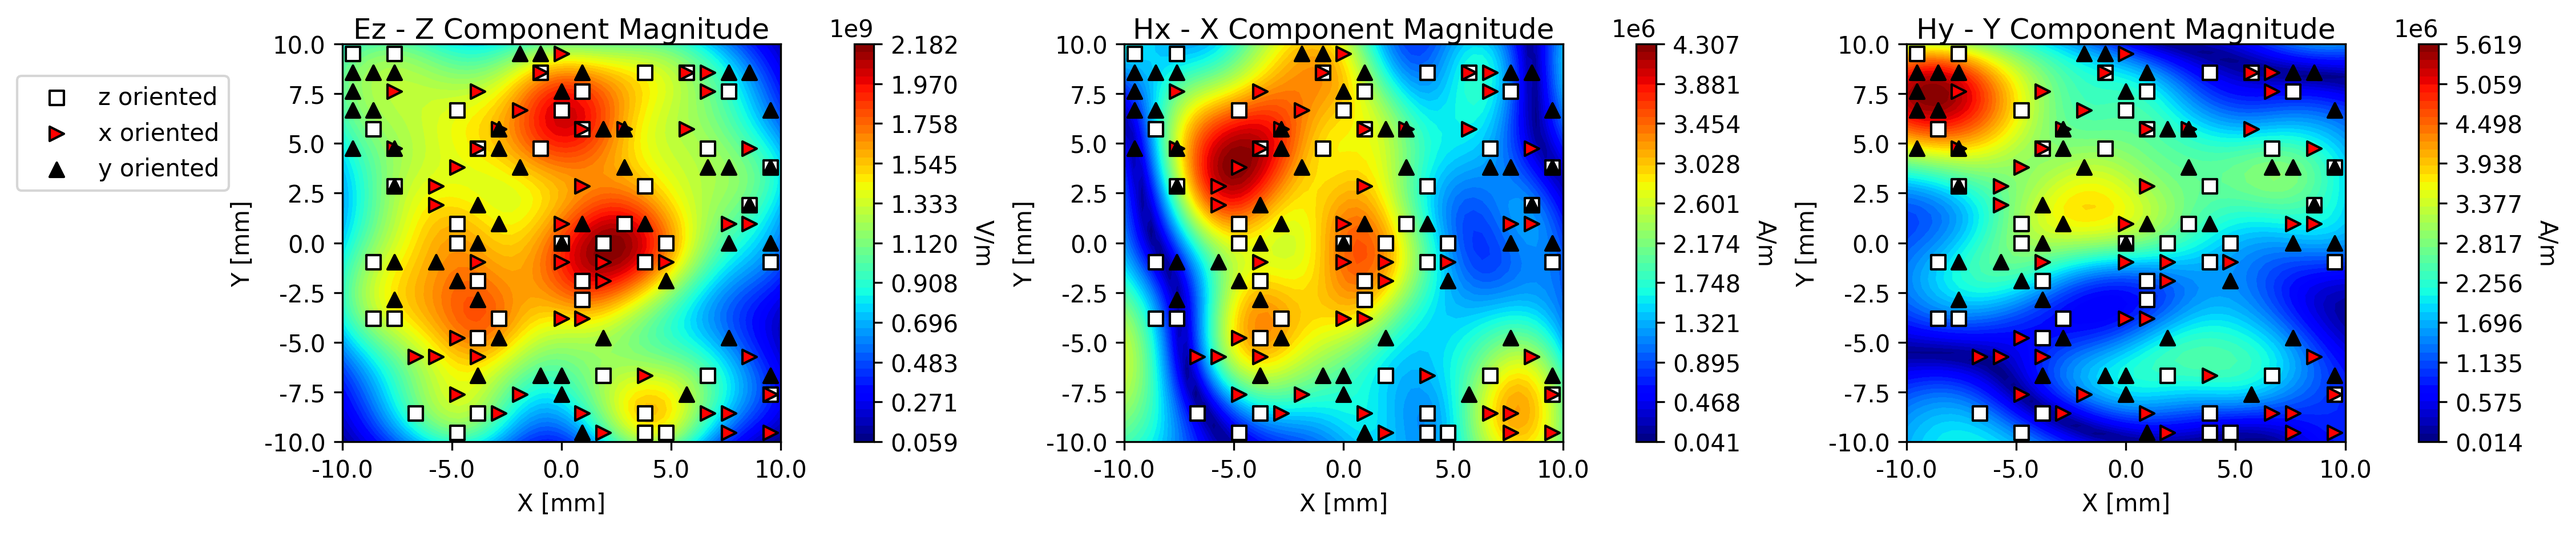
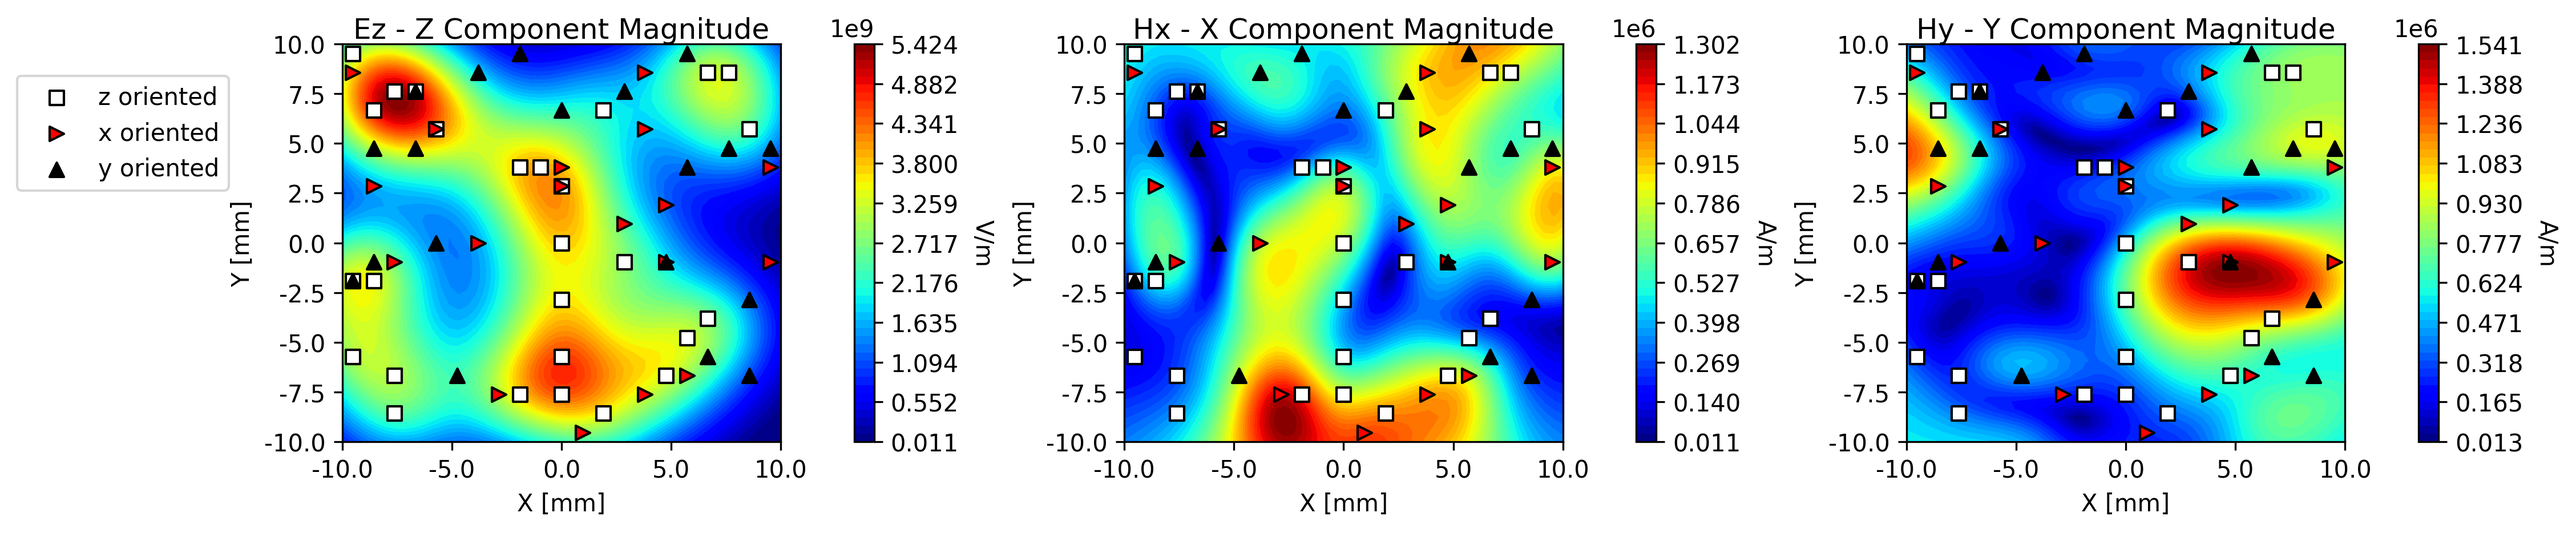
from vm

diff --git a/my_scripts/generate_data.py b/my_scripts/generate_data.py
@@ -1,5 +1,4 @@
 import os, sys
-import h5py
 import numpy as np
 import scipy
 import math as m
@@ -7,7 +6,7 @@ import cmath as cm
 from pprint import pprint
 
 
-PROJECT_CWD = r"/workspace/"
+PROJECT_CWD = r"/home/pignari/Desktop/neural_networks/DeepLearning_models"
 sys.path.append(PROJECT_CWD)
 
 from my_packages.neural_network.data_generators.mixed_array_generator import MixedArrayGenerator
@@ -23,9 +22,10 @@ from torch.utils.data import TensorDataset, DataLoader
 
 print("cuda available: ", torch.cuda.is_available())
 print("number of GPUs: ",torch.cuda.device_count())
-print("I am currently using device number: ", torch.cuda.current_device())
-print("the device object is: ", torch.cuda.device(0))
-print("the device name is: ", torch.cuda.get_device_name(0))
+if torch.cuda.is_available():
+    print("I am currently using device number: ", torch.cuda.current_device())
+    print("the device object is: ", torch.cuda.device(0))
+    print("the device name is: ", torch.cuda.get_device_name(0))
 
 
 
@@ -39,9 +39,9 @@ substrate_thickness = 1.4e-2
 substrate_epsilon_r = 4.4
 dynamic_range = 2
 probe_height = 0.6e-2
-dipole_density_E = 0.1
-dipole_density_H = 0.1
-data_dir = "/workspace/NN_data/high_res_with_noise/"
+dipole_density_E = 0.05
+dipole_density_H = 0.05
+data_dir = "/share/NN_data/high_res_with_noise"
 
 
 rmg = MixedArrayGenerator(
@@ -59,15 +59,27 @@ rmg = MixedArrayGenerator(
     dipole_density_H=dipole_density_H
     )
 
+# dfh = rmg._generate_fh()
+# M_magnetic = np.abs(dfh.magnetic_array.M)
+# M_electric = np.abs(dfh.electric_array.M)
+
+# magn_dyn_range = np.max(M_magnetic)/np.min(M_magnetic)
+# electr_dyn_range = np.max(M_electric)/np.min(M_electric)
+
+# print(magn_dyn_range, electr_dyn_range)
+
+
 data_iterator = DataIterator(rmg)
 
 N = 10
 N_test = 5
 
 inputs, target = data_iterator.generate_N_data_samples(N)
+inputs_test, target_test = data_iterator.generate_N_data_samples(N_test)
 train_and_valid_dataset = TensorDataset(torch.from_numpy(inputs).float(), torch.from_numpy(target).float())
-test_dataset = TensorDataset(torch.from_numpy(inputs).float(), torch.from_numpy(target).float())
+test_dataset = TensorDataset(torch.from_numpy(inputs_test).float(), torch.from_numpy(target_test).float())
 print("train_dataset size: ", len(train_and_valid_dataset))
+
 
 
 if not os.path.exists(data_dir):

diff --git a/my_packages/neural_network/data_generators/magnetic_array_generator.py b/my_packages/neural_network/data_generators/magnetic_array_generator.py
@@ -14,7 +14,6 @@ from my_packages.classes.field_classes import Scan
 
 from my_packages.neural_network.data_generators.abstract import Generator 
 import matplotlib.pyplot as plt
-plt.switch_backend('TkAgg')
 
 
 
@@ -55,10 +54,15 @@ class RandomMagneticDipoleGenerator(Generator):
         self.mask = np.stack(mask_layers, axis=0)
         self.N_dipoles = np.sum(self.mask)
         return self.mask
-    
+
     def _generate_random_moments(self):
-        moments_r, moments_i = np.random.uniform(1/self.dynamic_range, 1, size=(2, self.N_dipoles))
-        return moments_r+1j*moments_i
+        moments_abs = np.random.uniform(1/self.dynamic_range, 1, size=(self.N_dipoles,))
+        moments_phase = np.random.uniform(0, 2*np.pi, size=(self.N_dipoles,))
+        return moments_abs * np.exp(1j * moments_phase)
+    
+    # def _generate_random_moments(self):
+    #     moments_r, moments_i = np.random.uniform(1/self.dynamic_range, 1, size=(2, self.N_dipoles))
+    #     return moments_r+1j*moments_i
     
     def _return_r0(self):
         """
@@ -207,7 +211,8 @@ class RandomMagneticDipoleGenerator(Generator):
 
 
 if __name__ == "__main__":
-    
+    plt.switch_backend('TkAgg')
+
     resolution=(21,21)
     field_res = (50,50)
     xbounds = [-0.01, 0.01]

diff --git a/my_packages/neural_network/data_generators/mixed_array_generator.py b/my_packages/neural_network/data_generators/mixed_array_generator.py
@@ -17,7 +17,6 @@ from my_packages.neural_network.data_generators.electric_array_generator import 
 from my_packages.neural_network.data_generators.abstract import Generator
 
 import matplotlib.pyplot as plt
-plt.switch_backend('TkAgg')
 
 class MixedArrayGenerator(Generator):
     def __init__(
@@ -282,7 +281,7 @@ class MixedArrayGenerator(Generator):
     
 
 if __name__ == "__main__":
-    import torch 
+    plt.switch_backend('TkAgg')
 
     save_dir = "/workspace/NN_data/mixed_array_data"
     fullpath_train = os.path.join(save_dir, "train_and_valid_dataset.pt")

diff --git a/my_packages/neural_network/data_generators/electric_array_generator.py b/my_packages/neural_network/data_generators/electric_array_generator.py
@@ -14,7 +14,6 @@ from my_packages.classes.field_classes import Scan
 
 from my_packages.neural_network.data_generators.abstract import Generator
 import matplotlib.pyplot as plt
-plt.switch_backend('TkAgg')
 
 
 
@@ -181,7 +180,8 @@ class RandomElectricDipoleGenerator(Generator):
 
 
 if __name__ == "__main__":
-    
+    plt.switch_backend('TkAgg')
+
     resolution=(21,21)
     field_res = (50,50)
     xbounds = [-0.01, 0.01]
